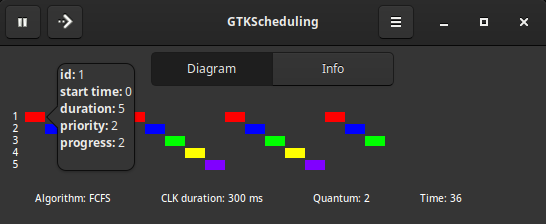
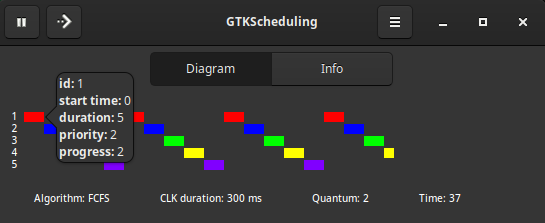
rm newline from task popover and update img

diff --git a/src/window.py b/src/window.py
@@ -238,7 +238,7 @@ class Window(Gtk.Window):
                                    f"<b>start time:</b> {rect.task_record.task.start_time}\n"
                                    f"<b>duration:</b> {rect.task_record.task.duration}\n"
                                    f"<b>priority:</b> {rect.task_record.task.priority}\n"
-                                   f"<b>progress:</b> {rect.task_record.progress}\n"
+                                   f"<b>progress:</b> {rect.task_record.progress}"
         )
         e_x = event.x
         e_y = event.y
